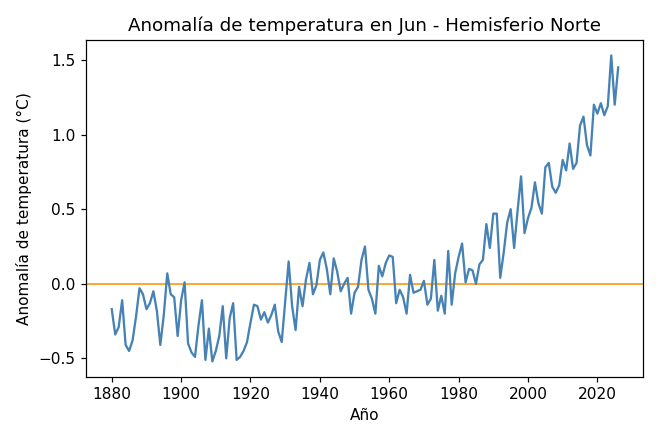
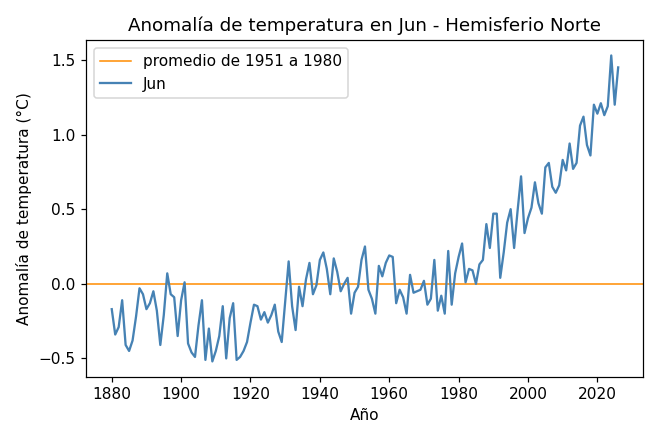
Arreglito acceso datos

Changed region(s): [[0.1212, 0.0886, 0.5455, 0.1477], [0.1212, 0.1773, 0.5152, 0.2364]]

diff --git a/Scripts/taller5_clima.py b/Scripts/taller5_clima.py
@@ -4,9 +4,10 @@ import pandas as pd
 import matplotlib.pyplot as plt
 from scipy import stats
 
-ARCHIVO_TEMP = os.path.join("RawData", "datos_taller_5.csv")
-ARCHIVO_CO2 = os.path.join("RawData", "co2_data.txt")
-CARPETA_SALIDA = "Resultados"
+BASE_DIR = os.path.dirname(os.path.dirname(os.path.abspath(__file__)))
+ARCHIVO_TEMP = os.path.join(BASE_DIR, "RawData", "datos_taller_5.csv")
+ARCHIVO_CO2 = os.path.join(BASE_DIR, "RawData", "co2_data.txt")
+CARPETA_SALIDA = os.path.join(BASE_DIR, "Resultados")
 MES = "Jun"          
 MES_NUM = 6      
 
